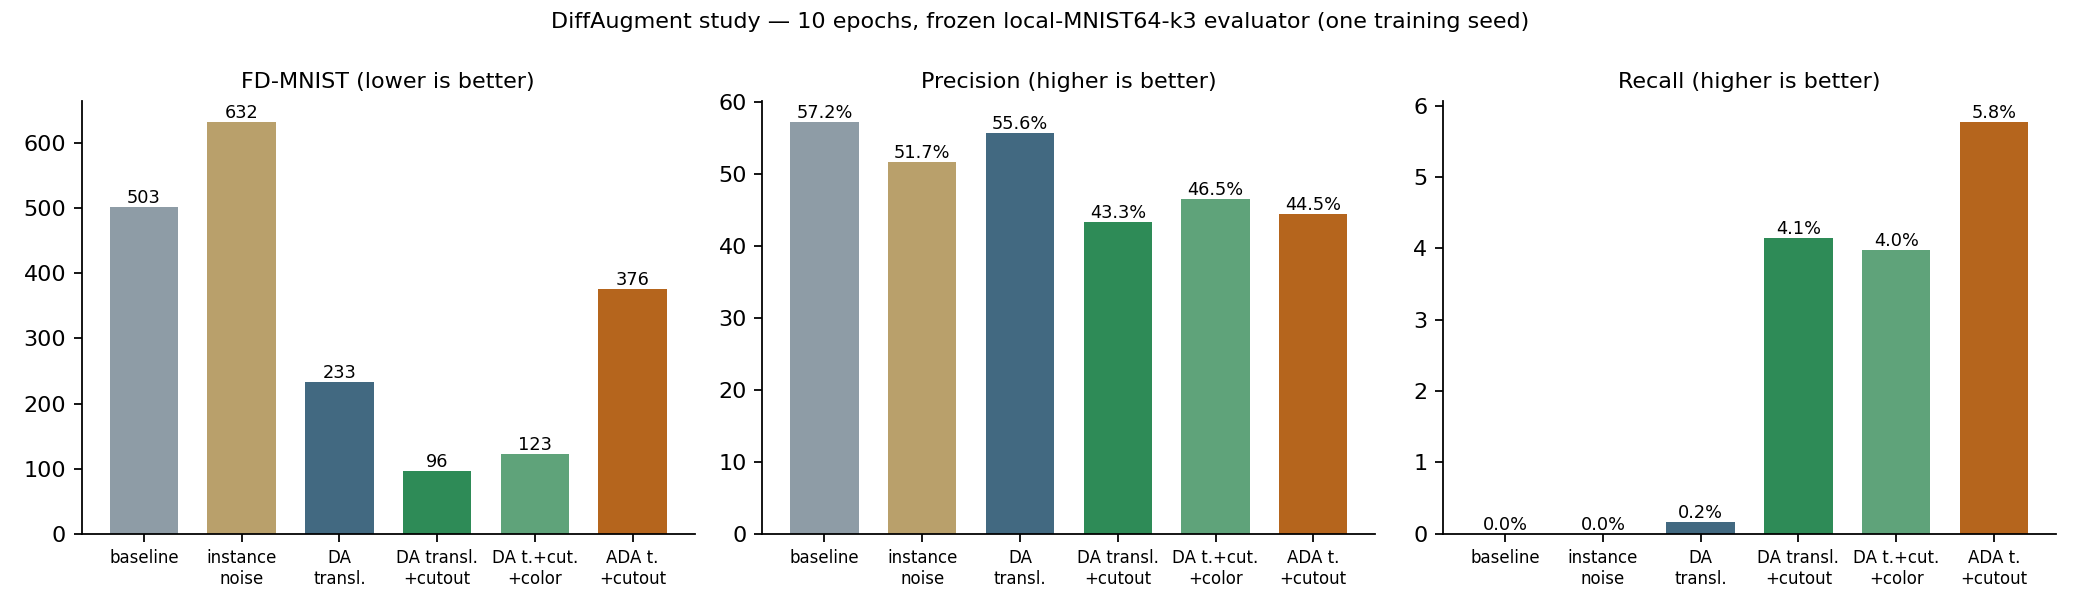
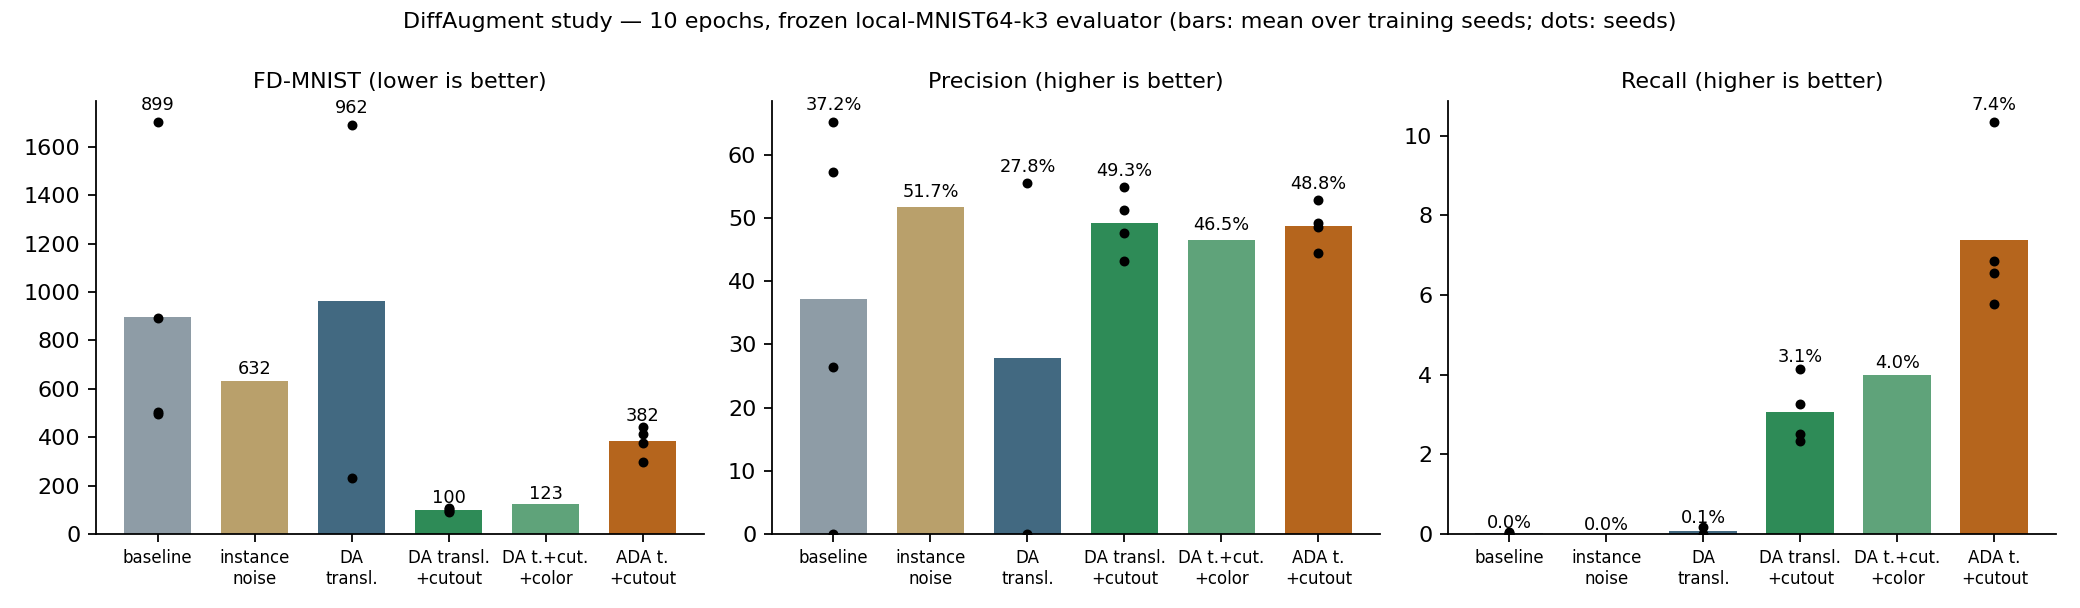
results: 4 training seeds for baseline, DiffAugment and ADA
Baseline FD 494-1704 with 1/4 collapse; DiffAugment (translation+cutout)
FD 92-108, 0/4 collapse; ADA FD 299-441, 0/4 collapse, highest recall.
Adds main 3-method figure, seed-1 collapse figure, all-seed CSV and ledger,
and the main-result section of the report.

diff --git a/scripts/diffaug_figures.py b/scripts/diffaug_figures.py
@@ -7,6 +7,7 @@ dependency of training or generate.py).
 """
 import csv
 import json
+import re
 import sys
 from pathlib import Path
 
@@ -27,7 +28,7 @@ for path in sys.argv[1:]:
     summary = json.loads(Path(path).read_text())
     for r in summary["results"]:
         seed = r["config"].get("training_seed")
-        rows.append({"run_id": r["run_id"], "training_seed": seed, "FD_MNIST": r["FD_MNIST"],
+        rows.append({"run_id": re.sub(r"-seed\d+$", "", r["run_id"]), "training_seed": seed, "FD_MNIST": r["FD_MNIST"],
                      "precision": r["precision"], "recall": r["recall"],
                      "classes": r["predicted_class_counts"], "checkpoint_sha256": r["checkpoint_sha256"]})
 rows.sort(key=lambda r: (ORDER.index(r["run_id"]), r["training_seed"]))
@@ -51,7 +52,8 @@ for ax, key, title in zip(axes, ["FD_MNIST", "precision", "recall"],
         ax.bar(x, mean, color=colors[ORDER.index(c)], width=0.7)
         if len(vals) > 1:
             ax.scatter([x] * len(vals), vals, color="black", s=12, zorder=3)
-        ax.text(x, mean, f"{mean:.0f}" if key == "FD_MNIST" else f"{mean:.1f}%", ha="center", va="bottom", fontsize=8)
+        top = max([mean] + vals)
+        ax.text(x, top * 1.02, f"{mean:.0f}" if key == "FD_MNIST" else f"{mean:.1f}%", ha="center", va="bottom", fontsize=8)
     ax.set_xticks(range(len(conds)))
     ax.set_xticklabels([LABEL[c] for c in conds], fontsize=7.5)
     ax.set_title(title, fontsize=10)
@@ -78,3 +80,31 @@ fig.suptitle("Digit predicted by the frozen classifier (seed 0); dashed line = 1
 fig.tight_layout()
 fig.savefig(ROOT / "experiments/figures/diffaugment-classes.png", dpi=160)
 print("wrote CSV and 2 figures for", len(rows), "rows")
+
+
+# Simple 3-method figure for slides: baseline vs DiffAugment (translation+cutout) vs ADA.
+MAIN = [("baseline", "Baseline"), ("da-translation-cutout", "DiffAugment\n(shift + square)"),
+        ("ada-translation-cutout", "ADA\n(adaptive)")]
+fig, axes = plt.subplots(1, 3, figsize=(11, 3.6))
+for ax, key, title in zip(axes, ["FD_MNIST", "precision", "recall"],
+                          ["FD (lower = better)", "Precision = quality (%)", "Recall = diversity (%)"]):
+    for x, (c, _) in enumerate(MAIN):
+        vals = [r[key] * (100 if key != "FD_MNIST" else 1) for r in rows if r["run_id"] == c]
+        mean = sum(vals) / len(vals)
+        ax.bar(x, mean, color=colors[ORDER.index(c)], width=0.6)
+        ax.scatter([x] * len(vals), vals, color="black", s=14, zorder=3)
+        ax.text(x, max([mean] + vals) * 1.03, f"{mean:.0f}" if key == "FD_MNIST" else f"{mean:.1f}",
+                ha="center", va="bottom", fontsize=9)
+    ax.set_xticks(range(len(MAIN)))
+    ax.set_xticklabels([label for _, label in MAIN], fontsize=8.5)
+    ax.set_title(title, fontsize=10)
+    ax.set_ylim(0, ax.get_ylim()[1] * 1.08)
+    ax.spines[["top", "right"]].set_visible(False)
+collapsed = {c: sum(1 for r in rows if r["run_id"] == c and r["precision"] == 0) for c, _ in MAIN}
+tries = {c: sum(1 for r in rows if r["run_id"] == c) for c, _ in MAIN}
+fig.suptitle("Bars: average of " + "/".join(str(tries[c]) for c, _ in MAIN) + " training runs; dots: each run.   "
+             "Collapsed runs: " + ", ".join(f"{label.split(chr(10))[0]} {collapsed[c]}/{tries[c]}" for c, label in MAIN),
+             fontsize=9.5)
+fig.tight_layout()
+fig.savefig(ROOT / "experiments/figures/diffaugment-main.png", dpi=160)
+print("main figure written")

diff --git a/scripts/diffaug_manifest.py b/scripts/diffaug_manifest.py
@@ -1,25 +1,40 @@
-"""Write <study>/manifest.json for scripts/evaluate_frozen.py from completed runs in <study>/."""
+"""Write a manifest for scripts/evaluate_frozen.py from completed runs.
+
+Usage:
+  python scripts/diffaug_manifest.py STUDY_DIR                  -> STUDY_DIR/manifest.json, all runs in it
+  python scripts/diffaug_manifest.py --out M.json RUN_DIR ...   -> M.json, exactly these runs
+run_id = "<condition>-seed<training seed>" in --out mode, else the run directory name.
+"""
+import argparse
 import hashlib
 import json
-import sys
 from pathlib import Path
 
-study = Path(sys.argv[1]).resolve()
+parser = argparse.ArgumentParser(description=__doc__)
+parser.add_argument("paths", nargs="+", type=Path)
+parser.add_argument("--out", type=Path, default=None)
+args = parser.parse_args()
+if args.out is None:
+    study = args.paths[0].resolve()
+    runs, out, with_seed = sorted(p for p in study.iterdir() if (p / "metadata.json").exists()), study / "manifest.json", False
+else:
+    runs, out, with_seed = [p.resolve() for p in args.paths], args.out.resolve(), True
+
 conditions = []
-for run in sorted(p for p in study.iterdir() if (p / "metadata.json").exists()):
+for run in runs:
     meta = json.loads((run / "metadata.json").read_text())
     if meta.get("status") != "completed":
-        raise SystemExit(f"{run.name} did not complete")
+        raise SystemExit(f"{run} did not complete")
     checkpoint = run / "checkpoints" / "G.pth"
     cfg = meta["config"]
     conditions.append({
-        "run_id": run.name, "method": meta["method"],
-        "samples": f"{run.name}/samples", "checkpoint": f"{run.name}/checkpoints/G.pth",
+        "run_id": f"{run.name}-seed{cfg['seed']}" if with_seed else run.name, "method": meta["method"],
+        "samples": str(run / "samples"), "checkpoint": str(checkpoint),
         "checkpoint_sha256": hashlib.sha256(checkpoint.read_bytes()).hexdigest(),
         "config": {"training_seed": cfg["seed"], "generation_seed": cfg["generation_seed"],
                    "epochs": cfg["epochs"], "lr_G": cfg["lr_G"], "lr_D": cfg["lr_D"],
                    "generation_batch_size": cfg["generation_batch_size"], "sigma": 1.0,
                    "diffaugment_policy": cfg.get("diffaugment_policy", []),
                    "instance_noise_initial_std": cfg.get("instance_noise_initial_std", 0.0)}})
-(study / "manifest.json").write_text(json.dumps({"conditions": conditions}, indent=2) + "\n")
-print(f"{len(conditions)} conditions -> {study / 'manifest.json'}")
+out.write_text(json.dumps({"conditions": conditions}, indent=2) + "\n")
+print(f"{len(conditions)} conditions -> {out}")

diff --git a/experiments/diffaugment.md b/experiments/diffaugment.md
@@ -1,10 +1,11 @@
 # T1 — DiffAugment, instance noise and adaptive augmentation (training-side, D inputs)
 
-Workstream owner: Roey. Status: **seed 0 complete for all 6 conditions; seed-1 repeats
-(baseline, translation, ADA) queued.**
+Workstream owner: Roey. Status: **complete** — 6 conditions on training seed 0, and
+4 training seeds (0–3) for the three main methods.
 Portable evidence: this report, [results CSV](diffaugment-results.csv),
 [export-check CSV](diffaugment-export-check.csv), [workstream ledger](diffaugment-ledger.jsonl),
-figures: [metrics](figures/diffaugment-metrics.png), [digit classes](figures/diffaugment-classes.png),
+figures: [main result](figures/diffaugment-main.png), [collapse](figures/diffaugment-collapse-seed1.png),
+[all conditions](figures/diffaugment-metrics.png), [digit classes](figures/diffaugment-classes.png),
 [samples](figures/diffaugment-samples.png),
 [what-D-sees figure](figures/diffaugment-what-d-sees.png). Full runs stay on Juliet under
 `~/a2-diffaug/repo/runs/` (ignored by Git, per the [artifact policy](README.md)).
@@ -55,7 +56,36 @@ none of them it behaves exactly as before.
 | da-translation-cutout-color | `--augment translation,cutout,color` | 183 | 1 |
 | ada-translation-cutout | `--augment translation,cutout --ada-target 0.6` | 180 | 0.29 |
 
-## Results
+## Main result: quality, diversity and reliability over 4 training seeds
+
+Same protocol, training seeds 0–3 (generation seed 1). Each cell: FD-MNIST / precision % /
+recall %. A run is counted as **collapsed** when the generator outputs one fixed pattern
+(precision 0; D loss → 0 within 2–3 epochs). [Figure](figures/diffaugment-main.png).
+
+| Method | Seed 0 | Seed 1 | Seed 2 | Seed 3 | Mean | Collapsed |
+|---|---|---|---|---|---|---:|
+| Baseline | 503 / 57.2 / 0.00 | 1704 / 0.0 / 0.00 | 494 / 65.2 / 0.04 | 894 / 26.4 / 0.02 | **899** / 37.2 / 0.01 | 1/4 |
+| **DiffAugment** (translation + cutout) | 96 / 43.3 / 4.14 | 102 / 55.0 / 2.50 | 108 / 47.7 / 2.33 | 92 / 51.2 / 3.26 | **100** / 49.3 / 3.06 | 0/4 |
+| **ADA** (translation + cutout, adaptive p) | 376 / 44.5 / 5.77 | 413 / 48.6 / 10.35 | 299 / 49.2 / 6.85 | 441 / 52.9 / 6.55 | **382** / 48.8 / 7.38 | 0/4 |
+
+- **Normal training is a gamble.** The baseline's FD ranges from 494 to 1704 across seeds;
+  in seed 1 D's loss reached 0 in epoch 2, D rejected every fake, and G produced one
+  identical noise pattern for every input ([figure](figures/diffaugment-collapse-seed1.png)).
+- **DiffAugment (translation + cutout) is both the best and the most stable**: FD 92–108
+  on every seed (mean ≈100, ≈9× lower than the baseline mean), 0/4 collapses. Its D loss
+  rises steadily to ≈1.3 in every run — D finds the game harder over time instead of
+  winning it.
+- **ADA is also stable (0/4) and gives the most diversity** (recall 5.8–10.4%, mean 7.4%)
+  but worse FD (mean 382). In seed 1, when D started to win, ADA raised p to 0.8 by
+  epoch 3 and training recovered. Its samples are dominated by "1"s on every seed (31–51% of
+  samples), whereas DiffAugment keeps every digit between 2.9% and 21% on every seed:
+  diversity in the recall sense (coverage of real samples) is not the same as balanced
+  digit classes.
+- **Quality–diversity trade-off**: precision is similar for DiffAugment and ADA (≈49%),
+  above the baseline mean (37%, pulled down by the collapsed and weak runs) but below its
+  best runs (57–65%). Augmentation buys reliability and coverage, not sharper digits.
+
+## Ablation: which augmentation? (training seed 0)
 
 Frozen local-MNIST64-k3-v1 metrics, training seed 0, generation seed 1, σ=1, starter
 export ([CSV](diffaugment-results.csv), [figure](figures/diffaugment-metrics.png)):
@@ -71,7 +101,7 @@ export ([CSV](diffaugment-results.csv), [figure](figures/diffaugment-metrics.png
 
 Real-vs-real control: FD 0.47, precision 89.5%, recall 90.7%.
 
-**Interpretation (one training seed — see limitations).**
+**Interpretation of the ablation (one training seed per condition).**
 
 - **DiffAugment works on the fixed MLP**: translation alone more than halves FD (503 → 233)
   at similar precision; adding cutout cuts FD by a further factor of 2.4 (→ 96) and is the
@@ -87,10 +117,12 @@ Real-vs-real control: FD 0.47, precision 89.5%, recall 90.7%.
   shortcut on this architecture (stronger or slower-annealed noise was not tested).
 - **ADA** reaches the highest recall (5.8%) but collapses toward "1" (41% of samples)
   and has worse FD than fixed cutout; its p peaked at 0.53 and ended at 0.29, so it
-  augments far less than fixed cutout (p=1). Kept as a coverage option only if seed 1 confirms the recall.
-- **Single-seed caveat**: the same baseline settings gave FD 774 on CPU (shared
-  reference) and 503 on GPU here — training variance between runs is large. Seed-1 repeats
-  are queued; claims above should be read as preliminary until then.
+  augments far less than fixed cutout (p=1). Its recall advantage repeated on seeds 1–3 (see main result).
+- **Translation alone is not enough**: on seed 1 it collapsed exactly like the baseline
+  (FD 1691, precision 0) — the shift is easy for D to see through; cutout is what keeps
+  D from winning.
+- Instance noise, colour and translation-only were run on seed 0 only (plus seed 1 for
+  translation): treat their ranking as indicative.
 
 Visual check, first 64 exported images per condition, no selection
 ([figure](figures/diffaugment-samples.png)): the baseline gives speckled, noisy
@@ -125,5 +157,8 @@ two exports: `clip` = starter `save_image(x)` (negatives → 0); `rescale` =
 
 ## Limitations
 
-One training seed per condition so far (repeats queued); local development metrics, not official
-FID/precision/recall; 10-epoch budget only.
+Four training seeds for the main methods, one or two for the ablation conditions; local
+development metrics, not official FID/precision/recall; 10-epoch budget only; augmentation
+strengths (4-px shift, 14×14 cutout, ADA target 0.6) were not tuned. The same baseline gave
+FD 774 on the shared CPU reference and 494–894 on our GPU runs when it did not collapse:
+compare methods within this study, not across machines.
